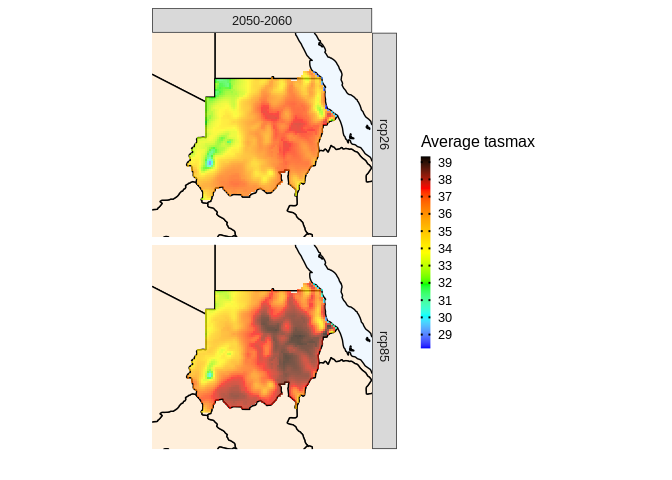
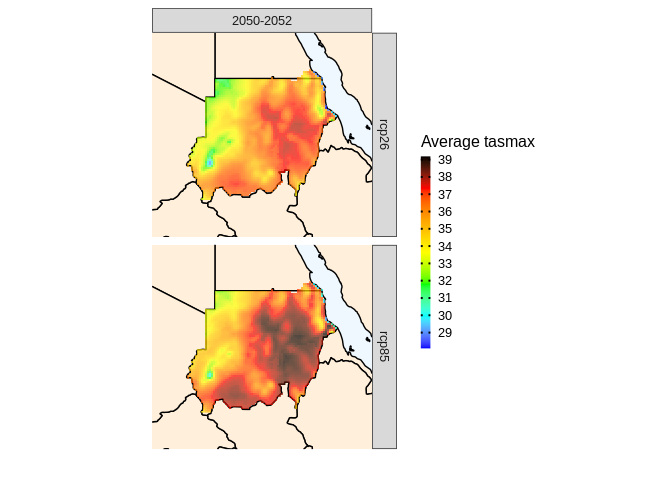
changed n.cores for higher performances

diff --git a/README.md b/README.md
@@ -57,13 +57,13 @@ containing, for example, several RCPs and a folder with historical runs.
     library(cavaR)
 
     exmp1 <- load_data(country = "Sudan", variable="tasmax", years.hist=2000, years.proj=2010,
-                  path.to.data = "~/Databases/CORDEX-CORE/AFR-22", path.to.obs="~/Databases/W5E5", n.cores=9)
+                  path.to.data = "~/Databases/CORDEX-CORE/AFR-22", path.to.obs="~/Databases/W5E5")
 
 ``` r
 library(cavaR)
 
 local.data <- load_data(country = "Sudan", variable="tasmax", years.hist=1980:2000, years.proj=2050:2080,
-              path.to.data = "~/Databases/CORDEX-CORE/AFR-22", path.to.obs="~/Databases/W5E5", n.cores = "6")
+              path.to.data = "~/Databases/CORDEX-CORE/AFR-22", path.to.obs="~/Databases/W5E5")
 ```
 
 ``` r
@@ -96,8 +96,8 @@ with a small subset of the CAS-22 domain, available with the package
 ``` r
 # when n.cores="nested" 9 cores for parallel processing are used (3*3)
 
-remote.data <- load_data(country = "Sudan", variable="tasmax", years.hist=1995:2000, years.proj=2050:2060,
-              path.to.data = "CORDEX-CORE", path.to.obs="W5E5", domain="AFR-22", n.cores="nested")
+remote.data <- load_data(country = "Sudan", variable="tasmax", years.hist=1995, years.proj=2050:2052,
+              path.to.data = "CORDEX-CORE", path.to.obs="W5E5", domain="AFR-22")
 ```
 
 ### Second step: perform analysis
@@ -123,7 +123,7 @@ rsts <- remote.data %>%
   projections(bias.correction = F, season = 1:12, uppert=NULL, lowert = NULL, consecutive = F)
 ```
 
-    ## 2022-11-29 23:10:32 projections, season 1-2-3-4-5-6-7-8-9-10-11-12. Calculation of mean  tasmax
+    ## 2022-11-30 11:19:09 projections, season 1-2-3-4-5-6-7-8-9-10-11-12. Calculation of mean  tasmax
 
 ``` r
 # calculating number of days above 42 C, which is equal to 315 Kelvin
@@ -131,7 +131,7 @@ rsts_thrs <- remote.data %>%
   projections(bias.correction = F, season = 1:12, uppert = 45, lowert = NULL, consecutive = F)
 ```
 
-    ## 2022-11-29 23:10:46 projections, season 1-2-3-4-5-6-7-8-9-10-11-12. Calculation of number of days with tasmax above threshold of 45
+    ## 2022-11-30 11:19:17 projections, season 1-2-3-4-5-6-7-8-9-10-11-12. Calculation of number of days with tasmax above threshold of 45
 
 ### Third step: visualize results
 
@@ -143,7 +143,7 @@ rsts %>%
 plotting(plot_titles = "Average tasmax")
 ```
 
-    ## 2022-11-29 23:11:00 Done
+    ## 2022-11-30 11:19:25 Done
 
 ![](README_files/figure-gfm/unnamed-chunk-5-1.png)<!-- -->
 
@@ -152,6 +152,6 @@ rsts_thrs %>%
 plotting(plot_titles = "N. days")
 ```
 
-    ## 2022-11-29 23:11:01 Done
+    ## 2022-11-30 11:19:26 Done
 
 ![](README_files/figure-gfm/unnamed-chunk-6-1.png)<!-- -->
